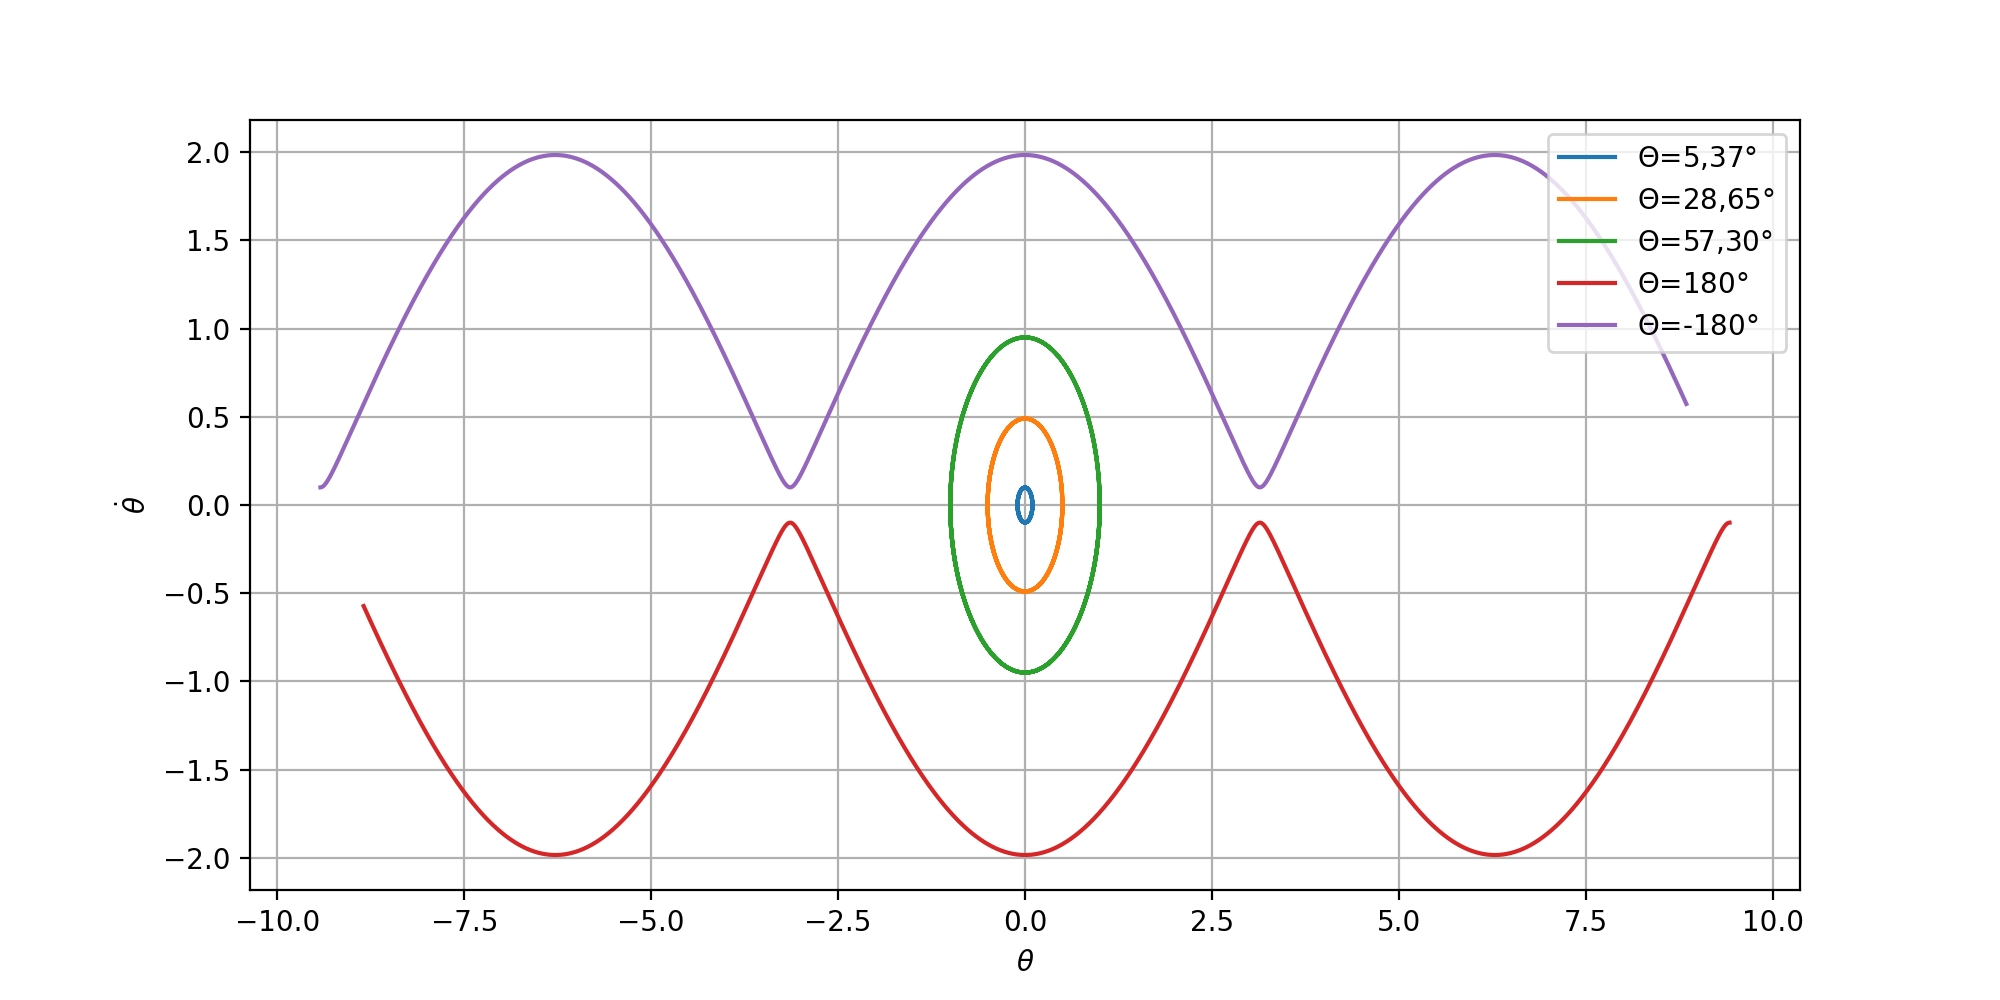
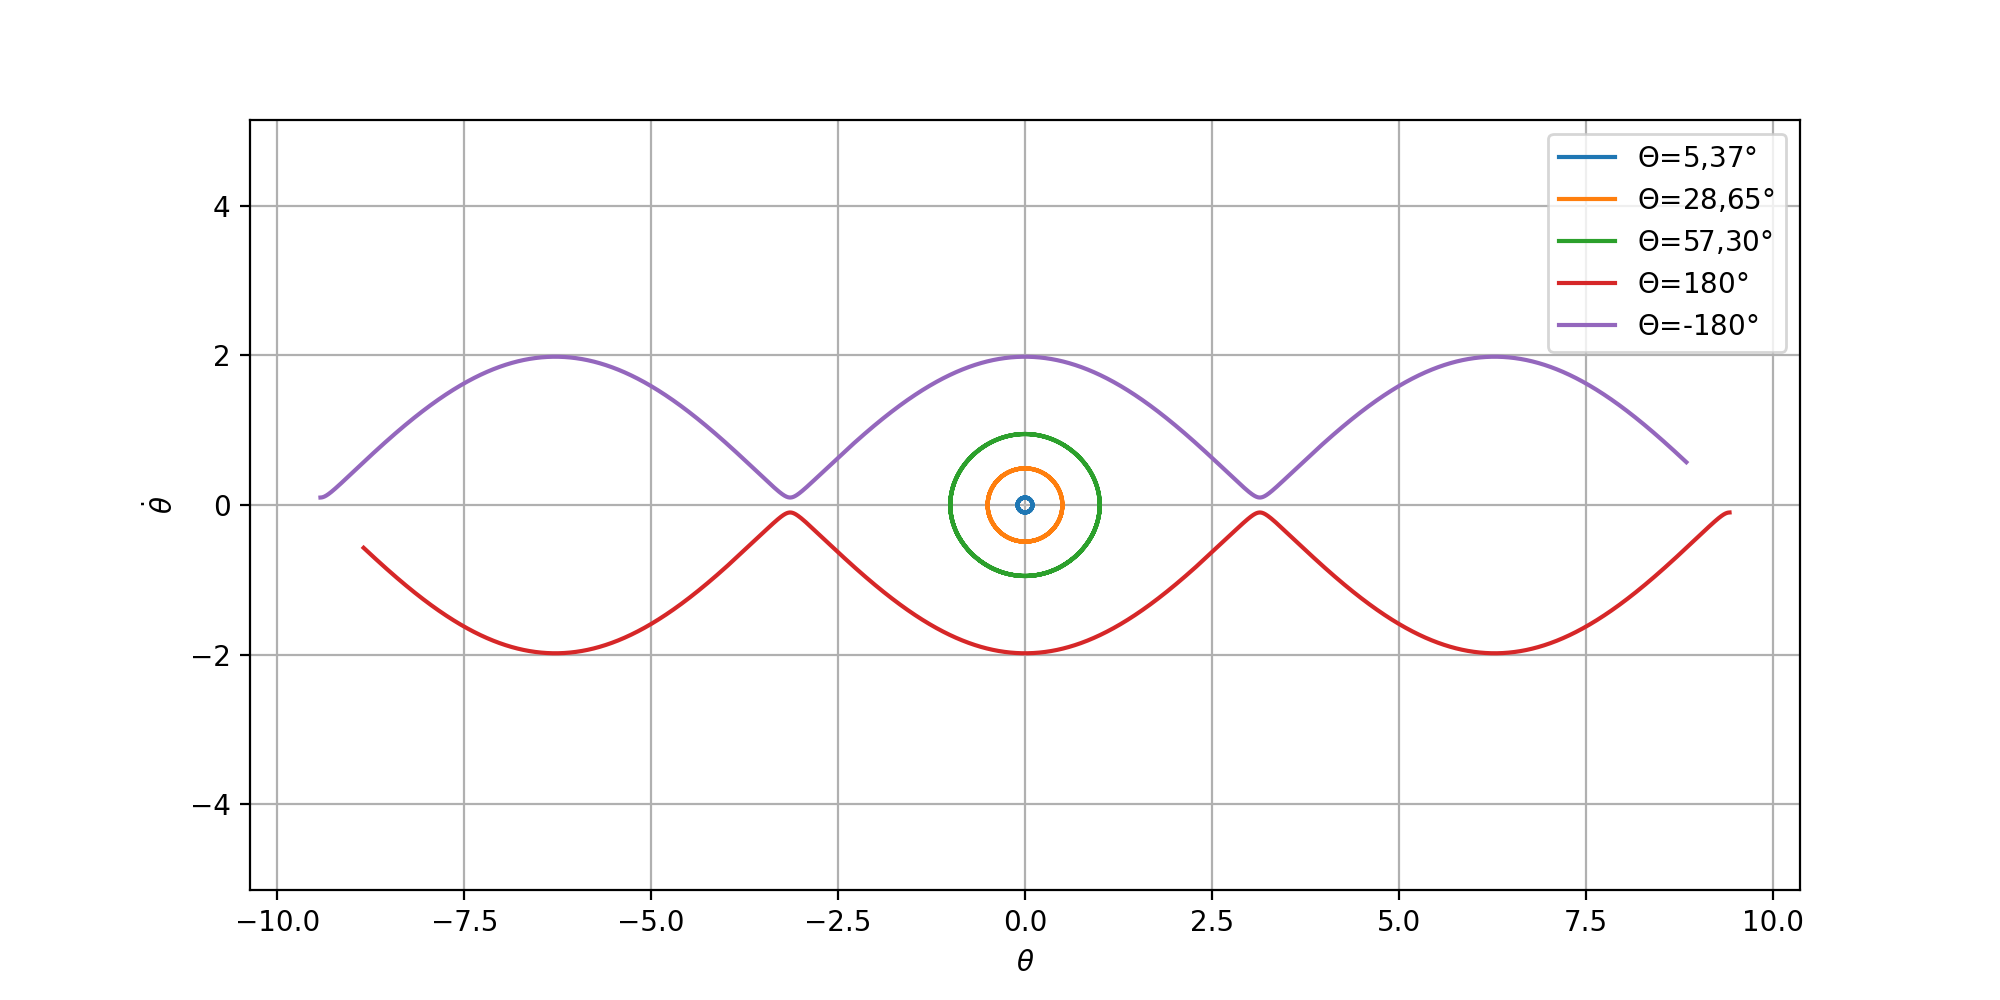
Adjusted phase-space normalization

diff --git a/main.py b/main.py
@@ -134,6 +134,7 @@ def fig_euler_velocity_position():
     plt.plot(euler_method(1,0,24,10**-3)[0],euler_method(1,0,24,10**-3)[1],label="$\Theta$=57,30°")
     plt.plot(euler_method(3*np.pi,-0.1,24,10**-3)[0],euler_method(3*np.pi,-0.1,24,10**-3)[1],label="$\Theta$=180°")
     plt.plot(euler_method(-3*np.pi,0.1,24,10**-3)[0],euler_method(-3*np.pi,0.1,24,10**-3)[1],label="$\Theta$=-180°")
+    plt.axis('equal')
     plt.xlabel(r"$\theta$")
     plt.ylabel(r"$\dot{\theta}$")
     plt.legend()
@@ -149,8 +150,8 @@ def fig_runge_kutta_2_velocity_position():
     plt.plot(runge_kutta_2(1,0,24,10**-3)[1],runge_kutta_2(1,0,24,10**-3)[2],c='green',label="$\Theta$=57,30°")
     plt.plot(runge_kutta_2(3*np.pi,-0.1,24,10**-3)[1],runge_kutta_2(3*np.pi,-0.1,24,10**-3)[2],c='black',label="$\Theta$=180°")
     plt.plot(runge_kutta_2(-3*np.pi,0.1,24,10**-3)[1],runge_kutta_2(-3*np.pi,0.1,24,10**-3)[2],c='purple',label="$\Theta$=-180°")
-    plt.xlim(-10,10)
-    plt.xlabel(r"$\theta$")
+    plt.axis('equal')
+    plt.xlabel(r"$\theta$") 
     plt.ylabel(r"$\dot{\theta}$")
     plt.legend()
     plt.grid()
